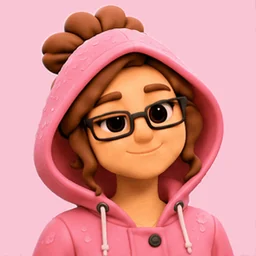
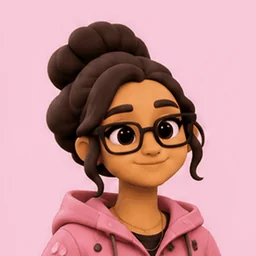
Kiru colour redo: rain idle/wave/walk in kiru-v2 colours
Claude-Session: https://claude.ai/code/session_01M9MLSzTgGmRpDx4quWz9qx

diff --git a/design/gen/status.md b/design/gen/status.md
@@ -160,9 +160,9 @@ Generated in ChatGPT, checked frame by frame, converted to 256x256 animated WebP
 | kiru/party/idle | done | 1 | colour redo Nov 19 (sprite sheet, kiru-v2 colours): elegant black dress with sheer sleeves; aligned to frame 0 (sheet drifted up to 9 px); blink frames 5-9 |
 | kiru/party/wave | done | 1 | colour redo Nov 19 (sprite sheet, kiru-v2 colours): black dress with sheer sleeves; same hand waves on the left; white motion lines frames 4-6; two blinks |
 | kiru/party/dance | done | 1 | colour redo Nov 19 (sprite sheet, kiru-v2 colours): sway and finger snaps with both hands (hands at the bottom edges), small white snap lines frames 4-7; sway up to 6 px as drawn |
-| kiru/rain/idle | done | 0 | Kiru v2 look; bun pokes out above the hood |
-| kiru/rain/wave | done | 0 | Kiru v2 look |
-| kiru/rain/walk | done | 0 | Kiru v2 look; ONE umbrella in the same hand; face a bit smaller to fit the umbrella |
+| kiru/rain/idle | done | 1 | colour redo Nov 19 (sprite sheet, kiru-v2 colours): pink hooded raincoat with the hood DOWN (old version had it up); aligned to frame 0 (sheet drifted up to 10 px); blink frames 5-8 |
+| kiru/rain/wave | done | 1 | colour redo Nov 19 (sprite sheet, kiru-v2 colours): pink raincoat, hood down (matches the new rain/idle); same hand waves on the left; white motion lines frames 4-6; two blinks |
+| kiru/rain/walk | done | 1 | colour redo Nov 19 (sprite sheet, kiru-v2 colours): ONE pink umbrella in the same hand in every frame, raindrops; hood down; the top ~20 px is padded flat pink (no raindrops there) |
 | kiru/travel/idle | done | 0 | Kiru v2 look; hair a bit more auburn and the bun less defined under the sunglasses |
 | kiru/travel/wave | done | 0 | Kiru v2 look; hair a bit more auburn (matches travel/idle) |
 | kiru/travel/travel | done | 0 | Kiru v2 look; ONE suitcase handle, same hand; walking bob up to 8 px re-aligned; loop seam (frame 15 to 0) a bit stronger than other steps, softened by the 2.5 s end pause |
@@ -217,9 +217,9 @@ Reference measurements (tools: /tmp/tools/colour.py; median Lab over sampled fra
 | kiru/party/dance | done | 3.6 | 3.9 | sway and finger snaps with both hands (hands at the bottom edges), small white snap lines frames 4-7; sway up to 6 px as drawn |
 | kiru/party/idle | done | 4.0 | 3.1 | elegant black dress with sheer sleeves; aligned to frame 0 (sheet drifted up to 9 px); blink frames 5-9 |
 | kiru/party/wave | done | 3.0 | 4.0 | black dress with sheer sleeves; same hand waves on the left; white motion lines frames 4-6; two blinks |
-| kiru/rain/idle | pending |  |  | old: skin dE 9.3 hair dE 13.6 |
-| kiru/rain/walk | pending |  |  | old: skin dE 11.0 hair dE 13.1 |
-| kiru/rain/wave | pending |  |  | old: skin dE 9.7 hair dE 14.5 |
+| kiru/rain/idle | done | 3.8 | 1.3 | pink hooded raincoat with the hood DOWN (old version had it up); aligned to frame 0 (sheet drifted up to 10 px); blink frames 5-8 |
+| kiru/rain/walk | done | 2.4 | 3.8 | ONE pink umbrella in the same hand in every frame, raindrops; hood down; the top ~20 px is padded flat pink (no raindrops there) |
+| kiru/rain/wave | done | 4.0 | 4.4 | pink raincoat, hood down (matches the new rain/idle); same hand waves on the left; white motion lines frames 4-6; two blinks |
 | kiru/travel/idle | pending |  |  | old: skin dE 12.0 hair dE 18.8 |
 | kiru/travel/travel | pending |  |  | old: skin dE 14.2 hair dE 21.3 |
 | kiru/travel/wave | pending |  |  | old: skin dE 12.3 hair dE 19.5 |
